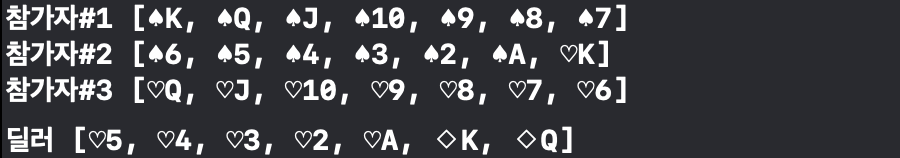
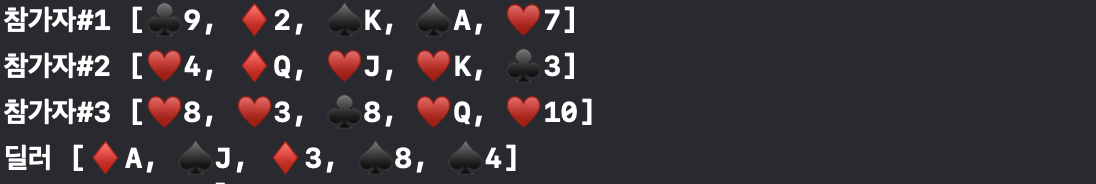
Docs: Update README

diff --git a/README.md b/README.md
@@ -62,8 +62,8 @@
 2020/Feb/10
 
 - PokerGame, Dealer, Player 모델 생성
-- PokerGame 초기화 -> Players, Dealer 초기화
-- Dealer의 Initializer에서 Player에게 패 전달
+- PokerGame 초기화 -> Dealer 초기화 -> Dealer에서 패를 뽑는다.
+- Dealer에서 뽑은 패를 PokerGame에서 Dealer에게 전달
 - PokerGame 인스턴스로 게임 진행 테스트
 
 #### class PockerGame
@@ -75,21 +75,31 @@ class PokerGame {
     var players: [Player] = []
     let dealer: Dealer
     
-    init(type gameType: GameType, numberOfPlayers: Int) {
+    init(game gameType: GameType, numberOfPlayers: Int) {
         self.gameType = gameType
         self.numberOfPlayers = numberOfPlayers
-        for _ in 0..<numberOfPlayers { players.append(Player()) }
-        self.dealer = Dealer(numberOfHands: gameType.numberOfHands, players: players)
+        self.dealer = Dealer(game: gameType)
+        setupHands()
     }
     
-    enum GameType: Int {
-        case sevenCardsStud = 7
-        case fiveCardsStud = 5
-        
-        var numberOfHands: Int {
-            self.rawValue
+    private func setupHands() {
+        setupPlayersHands()
+        dealer.setupCommunityCards()
+    }
+    
+    private func setupPlayersHands() {
+        for _ in 0..<numberOfPlayers {
+            guard let hands = dealer.drawHands() else {
+                print("카드가 부족합니다.")
+                return
+            }
+            players.append(Player(hands: hands))
         }
     }
+}
+
+enum GameType: Int {
+    case sevenCardsStud, fiveCardsStud
 }
 ```
 
@@ -97,37 +107,48 @@ class PokerGame {
 
 ```swift
 class Dealer {
-    var deck = CardDeck()
-    let numberOfHands: Int
-    let players: [Player]
-    var communityCards: [Card] = []
+    private let gameType: GameType
+    private var deck = CardDeck()
+    private var _communityCards: [Card] = []
     
-    init(numberOfHands: Int, players: [Player]) {
-        self.numberOfHands = numberOfHands
-        self.players = players
-        
-        setupHands()
+    var communityCards: [Card] {
+        _communityCards
+    }
+    
+    init(game gameType: GameType) {
+        self.gameType = gameType
+        setupDeck()
         setupCommunityCards()
     }
     
-    func setupHands() {
-        players.forEach {
-            passHands(to: $0)
-        }
+    func setupDeck() {
+        deck.shuffle()
     }
     
     func setupCommunityCards() {
-        for _ in 0..<numberOfHands {
-            guard let card = deck.removeOne() else { return }
-            communityCards.append(card)
+        guard let hands = drawHands() else {
+            print("카드가 부족합니다")
+            return
         }
+        _communityCards = hands
     }
     
-    func passHands(to player: Player) {
-        for _ in 0..<numberOfHands {
-            guard let card = deck.removeOne() else { return }
-            player.hands.append(card)
+    func drawHands() -> [Card]? {
+        var hands: [Card] = []
+        var numberOfHands = 0
+        switch gameType {
+        case .fiveCardsStud:
+            numberOfHands = 5
+        case .sevenCardsStud:
+            numberOfHands = 7
         }
+        
+        for _ in 0..<numberOfHands {
+            guard let card = deck.removeOne() else { return nil }
+            hands.append(card)
+        }
+        
+        return hands
     }
 }
 ```
@@ -137,8 +158,13 @@ class Dealer {
 PokerGame 객체로 게임을 진행했을 때, Player와 Dealer의 패, 커뮤니티카드 세팅을 정상적으로 작동되는지 테스트
 
 ```swift
-    func testFiveCardsStud() {
-        let pokerGame = PokerGame(type: .fiveCardsStud, numberOfPlayers: 4)
+    func testSevenCardsStud() {
+        let pokerGame = PokerGame(game: .sevenCardsStud, numberOfPlayers: 4)
+        
+        XCTAssert(pokerGame.players.count == 4)
+        pokerGame.players.forEach {
+            XCTAssert($0.hands.count == 7)
+        }
         
         pokerGame.players.enumerated().forEach { (i, player) in
             print("참가자#\(i+1) \(player.hands)")
